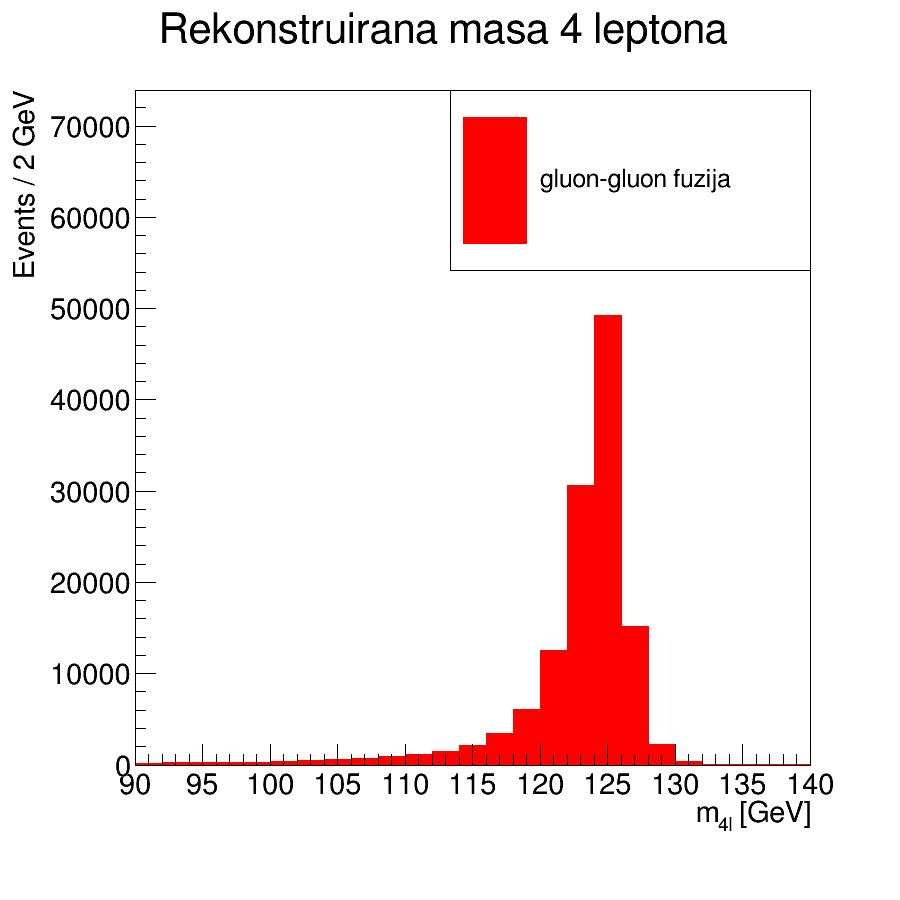
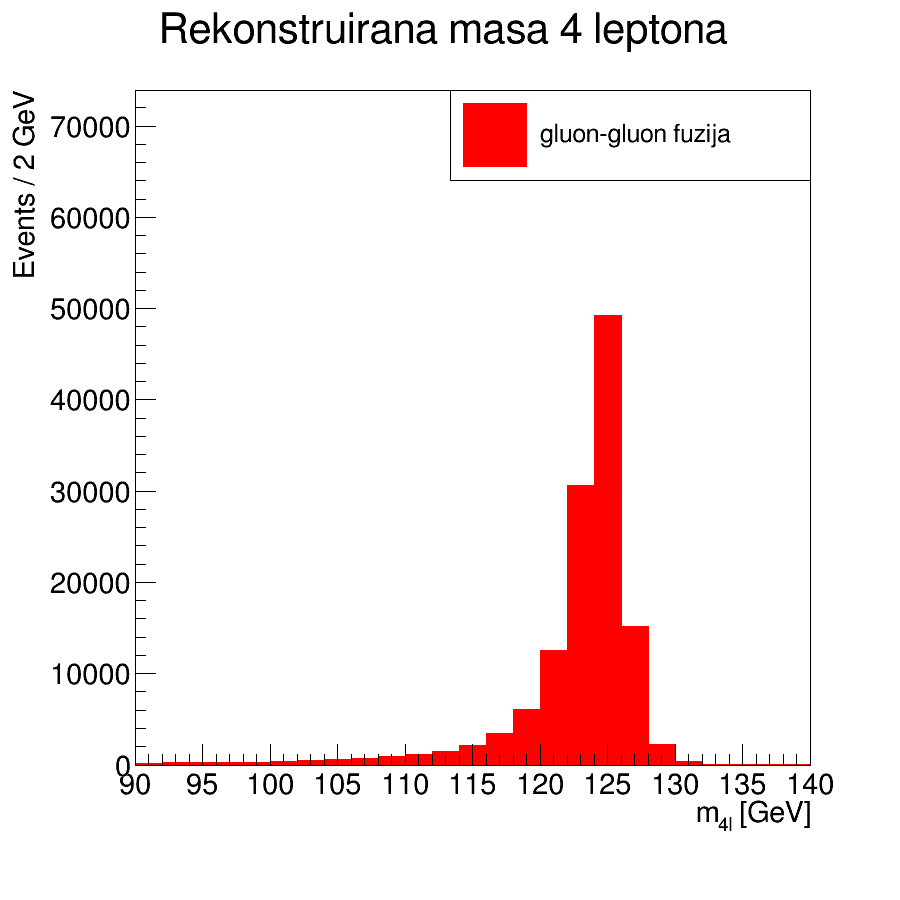
vjezbe6

Changed region(s): [[0.4978, 0.1867, 0.8089, 0.28], [0.4978, 0.0933, 0.8089, 0.1556]]

diff --git a/Vjezbe_6/Analyzer.cpp b/Vjezbe_6/Analyzer.cpp
@@ -233,7 +233,7 @@ void Analyzer::PlotHistogram (){
 	Mass_hist -> SetLineColor (kRed);
 	Mass_hist -> SetFillColor (kRed);
 	Mass_hist -> Draw ("HIST");
-	legend = new TLegend (0.5, 0.7, 0.9, 0.9);
+	legend = new TLegend (0.5, 0.8, 0.9, 0.9);
 	legend -> AddEntry (Mass_hist, "gluon-gluon fuzija", "f");
 	legend -> SetTextSize (0.03);
 	legend -> Draw ();
